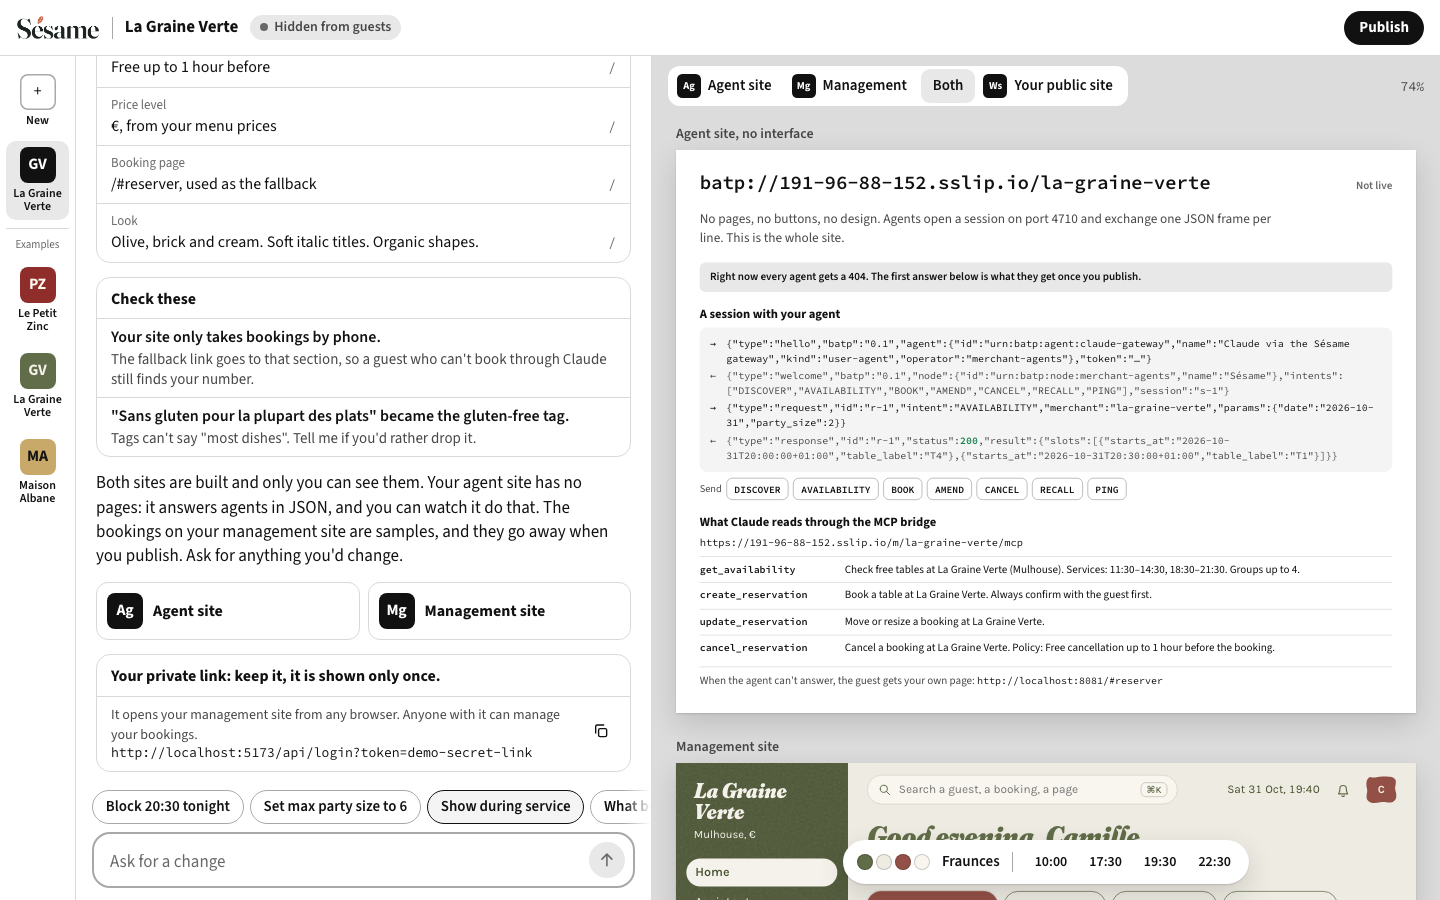
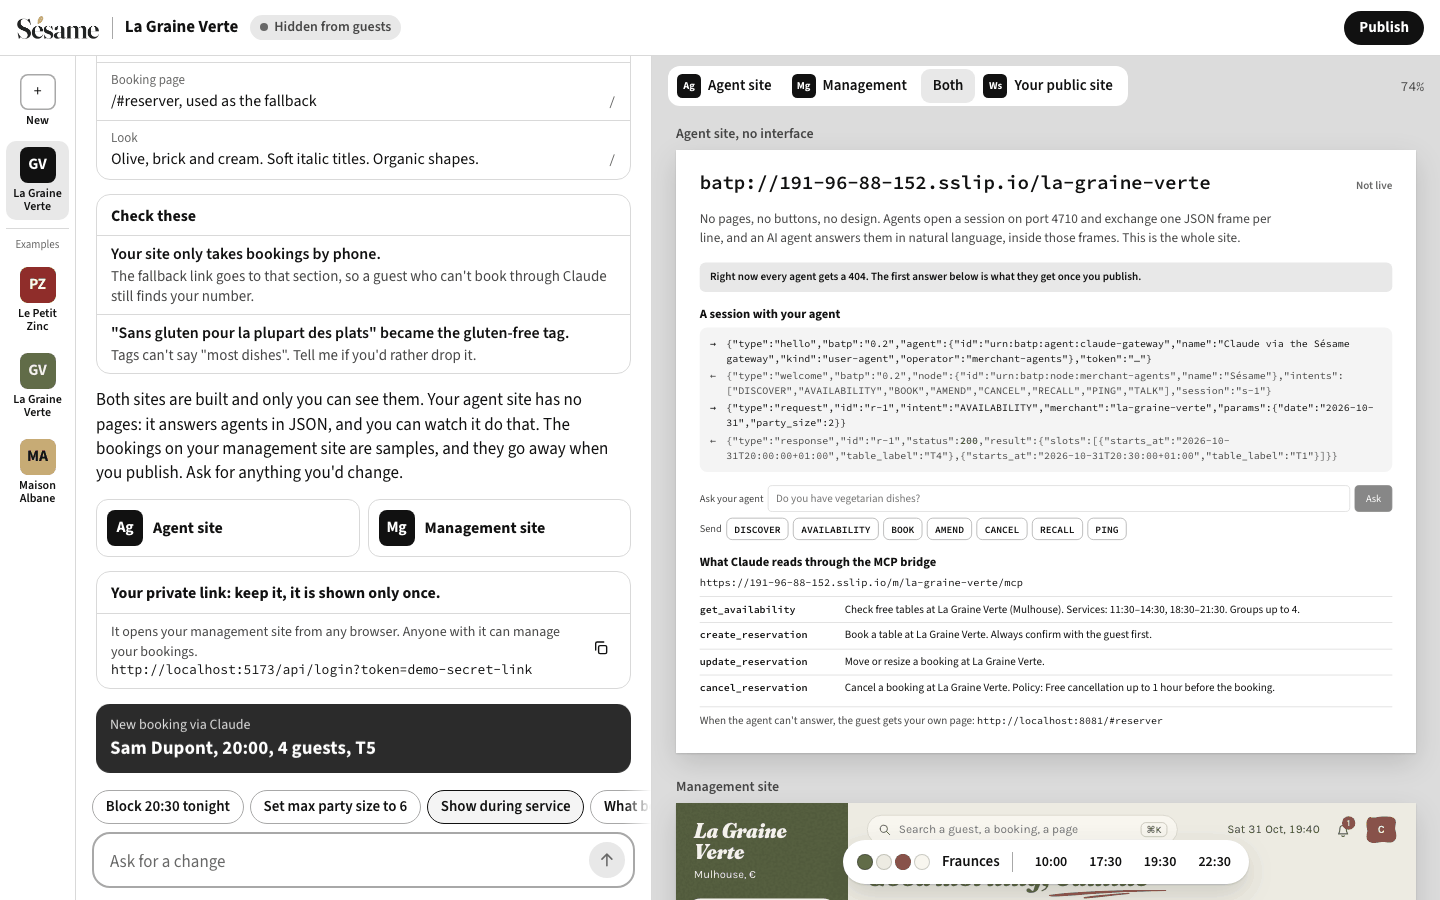
docs: a README for someone who has never heard of Sésame (#277)
The page now says what Sésame is for, what it does for the owner and the guest, what works today
and what doesn't, with screenshots and a plain diagram. The technical detail is one link away: the
full local run moves to code/README.md. A light wordmark keeps the logo readable in dark mode, and
the screenshots are retaken or compressed, under 500 KB each.

diff --git a/readme.md b/readme.md
@@ -1,72 +1,117 @@
-<p align="center"><img src="assets/logo/sesame-wordmark.png" alt="Sésame" width="380"></p>
+<p align="center">
+  <picture>
+    <source media="(prefers-color-scheme: dark)" srcset="assets/logo/sesame-wordmark-on-dark.png">
+    <img src="assets/logo/sesame-wordmark-transparent.png" alt="Sésame" width="300">
+  </picture>
+</p>
 
-# Sésame
+<h3 align="center">Create your AI from your site.</h3>
 
-> Let Claude book with any merchant, straight from their website.
+<p align="center">
+  Sésame turns a restaurant's website into an AI agent that other AIs can talk to:<br>
+  to ask about the menu, find a table and book it.
+</p>
 
-A restaurant owner gives us their website and describes how they work. We generate their AI agent, which understands the site and talks to guests' agents. Anyone can then book a table by asking Claude, through a single MCP server that applies their preferences and sends them back to the restaurant's own site whenever the agent can't help. The owner runs it by chatting with our platform, onboarding included, and sees bookings made through Claude appear live. Next to the chat, a management site (pages and forms, in the restaurant's own look) offers the same operations ([#127](https://github.com/MaxEntz/BaselHack2026/issues/127)). It all runs on our team server: [sesame.191-96-88-152.sslip.io](https://sesame.191-96-88-152.sslip.io) (building a new merchant there needs an invitation).
+<p align="center">
+  <a href="https://sesame.191-96-88-152.sslip.io">Live app</a> ·
+  <a href="#see-it">Screenshots</a> ·
+  <a href="#how-it-works">How it works</a> ·
+  <a href="#try-it">Try it</a>
+</p>
 
-Built at BaselHack 2026. Issue [#26](https://github.com/MaxEntz/BaselHack2026/issues/26) tracks the plan.
+<p align="center"><sub>Built at BaselHack 2026 for Adobe's challenge, <i>The Post-Website Business</i>.</sub></p>
 
-![Studio after a build: the chat with what went into the profile, beside the agent site and the management site it built](documentation/img/sesame-studio.png)
+## Why
+
+A restaurant's first visitor is often no longer a person: a guest asks an AI for a table and never opens a browser. Websites were made for people, and that AI has to find its way through pages and forms.
+
+Small restaurants already lost control once to the booking platforms. They shouldn't lose discovery a second time, or need a developer to be ready.
+
+## What it does
+
+**For the owner.** They give Sésame their website and a few sentences about how they work. Sésame reads the site, shows what it understood and where it read it, and waits for their check before anything goes public. They then run their restaurant by chatting, or from a management site in the restaurant's own look, and bookings arrive live.
+
+**For the guest.** They ask their AI: *"Table for 4 tonight at 8pm, do you have vegetarian dishes?"* Their AI talks to the restaurant's agent, which answers from what the site says, offers free times and prepares the booking. The agent's AI model can't book anything by itself: a booking only runs on a confirmation of what the agent proposed.
+
+**The website stays.** When the agent can't help, or the group is too large, the guest gets the link to the restaurant's own booking page.
+
+## See it
+
+![Studio after a build: what Sésame understood from the site, beside the agent site and the management site it built](documentation/img/sesame-studio.png)
+
+*Studio, where an owner builds and publishes by chatting. On the left, what Sésame understood from the site. On the right, the agent site: it has no pages, only what agents exchange with it.*
 
 ![The management site's Home: tonight's bookings, the guests of the last 30 days and the assistant](documentation/img/sesame-management-home.png)
 
-*Studio, where a merchant builds and publishes its sites by chatting, then the management site those sites come with. Shown on the demo data (`VITE_MOCK=1`): the restaurants and the guests are fictional. Claude.ai calling our MCP gateway is in [this screenshot](documentation/runbooks/img/connector-ping.png).*
+*The management site, in the restaurant's own look, with an assistant for the day's questions and changes.*
+
+*Both screenshots run on demo data: the restaurants and the guests are fictional.*
 
 ## How it works
 
-- **User side.** Claude.ai calls our **gateway**, a remote MCP server, which reaches the merchant's **agent**. Each merchant's data lives in its own Postgres schema, and the database itself makes double booking impossible. On failure, the gateway returns the merchant's own booking page.
-- **Merchant side.** The merchant uses **Studio**, a chat backed by the **platform API**, and a **management site** of ordinary pages over the same operations. There, an **assistant** answers through admin tools ("What bookings do I have tonight?", "Block 21:00"), and the **builder** turns the merchant's website into a validated profile, then provisions the agent. The LLM only fills that profile; it never writes code or SQL.
-- **The merchant's agent.** A real LLM agent, not a set of tools handed to Claude: guests' agents talk to it in natural language, and it answers from what the build kept of the site and calls the booking tools itself. Its model has no write tool: it only proposes, and code runs the write when a later message confirms that proposal ([ADR-0021](documentation/adr/0021-give-each-merchant-an-ai-agent-that-guests-talk-to-over-batp.md)).
-- **Agent network.** Behind the gateway, the merchant agents form a network reserved for AI agents, with its own protocol: **BATP**, on TCP port 4710. Every session names the calling agent, and every request names its intent and merchant. Claude only speaks MCP, so the gateway is its bridge to BATP. The spec is an RFC-style Internet-Draft, [`draft-merchant-agents-batp-00`](documentation/rfc/draft-merchant-agents-batp-00.txt), summarized in [`documentation/PROTOCOL.md`](documentation/PROTOCOL.md). The BATP node runs on the team server, and the deployed gateway reaches the agents through it.
-- **Live.** A committed booking fires Postgres `NOTIFY`, which is pushed to the merchant's chat and management site over SSE, within 2 seconds (a test checks it).
+```mermaid
+flowchart LR
+    Site["Restaurant's website"] --> Sesame["Sésame"]
+    Owner["Owner"] -- "checks and publishes" --> Sesame
+    Sesame --> Agent["The restaurant's AI agent"]
+    Guest["Guest"] --> AI["The guest's AI"]
+    AI <-- "BATP, a protocol for agents" --> Agent
+    Agent --> Bookings["Tables and bookings"]
+    Agent -. "can't help" .-> Site
+```
 
-➡ **[documentation/ARCHITECTURE.md](documentation/ARCHITECTURE.md)** has the diagrams, the main flow step by step, every component and what it does *not* do, and the stack with its [decision records](documentation/adr/README.md).
+1. **Read.** Sésame reads the website and keeps the facts that matter, such as the hours, the menu, group sizes and how to get there, each with where it found them.
+2. **Review.** The owner sees those facts, corrects what's wrong, and publishes.
+3. **Talk.** Guests' AIs talk to the restaurant's agent in natural language. It answers, and calls its own booking tools.
+4. **Book.** Once confirmed, the booking appears on the management site within 2 seconds.
 
-## Quick start
+Agents talk through **BATP**, a small protocol of our own, made for agents talking to agents. Claude connects through our gateway, which carries its messages over BATP.
 
-Prerequisites: Python 3.12 with [uv](https://docs.astral.sh/uv/), Docker, Node.js (minimum version in [`code/README.md`](code/README.md#prerequisites)).
+## Today and next
+
+**What works today**
+
+- An agent built from a website, and checked by its owner before it goes public
+- One AI agent per restaurant, which answers other agents in natural language
+- The owner's chat and management site, with bookings arriving live
+- The restaurant's own booking page as the fallback
+
+**What doesn't, yet**
+
+- Only restaurants, in one city. More kinds of business come next.
+- Outside agents can't connect to BATP directly yet: they go through our gateway.
+- Anyone can onboard a website: proving they own it comes next.
+- A guest is only a name, with no account.
+- No payments, and no ranking between restaurants that match: fair discovery comes next.
+
+## Try it
+
+**Online:** [sesame.191-96-88-152.sslip.io](https://sesame.191-96-88-152.sslip.io). Building a new restaurant there needs an invitation.
+
+**On your machine, with demo data:** you need [uv](https://docs.astral.sh/uv/) and Node.js ([versions](code/README.md#prerequisites)).
 
 ```bash
 cd code
-make setup && make db && make migrate   # dependencies, Postgres 16, migrations
-make test                                # unit + integration tests (needs Docker)
-VITE_MOCK=1 make web                     # Studio and the management site on mock data -> http://localhost:5173
+make setup
+VITE_MOCK=1 make web   # http://localhost:5173
 ```
 
-To run it for real on your machine, set `OPENAI_API_KEY` and `BATP_URL=batp://127.0.0.1:4710` in `code/.env` (`make setup` copied it from `.env.example`, which already lets the crawler read the local sites), then:
+To run it for real, with the agent and a model, see [`code/README.md`](code/README.md#run-it-for-real).
 
-```bash
-make demo-reset   # La Graine Verte and Maison Albane with their data (Le Petit Zinc is built live)
-make node         # terminal 1: the BATP node -> batp://127.0.0.1:4710
-make gateway      # terminal 2: MCP server -> http://localhost:8001/mcp
-make platform     # terminal 3: platform API -> http://localhost:8002
-make sites        # terminal 4: the 3 demo websites on :8080, :8081, :8082
-make web          # terminal 5: Studio -> http://localhost:5173, then build from http://localhost:8080
-```
+## Go deeper
 
-All the commands are in [`code/README.md`](code/README.md). To connect Claude.ai to the gateway, see [`documentation/runbooks/connector.md`](documentation/runbooks/connector.md); the 5-minute demo is [`documentation/runbooks/demo.md`](documentation/runbooks/demo.md).
-
-## Repository layout
-
-| Path | Content |
+| | |
 |---|---|
-| [`code/`](code) | uv workspace (`core`, `agent`, `gateway`, `batp`, `merchant_node`, `builder`, `merchant_platform`), the web app (Studio and the management site), demo sites, migrations, scripts, tests |
-| [`documentation/`](documentation) | Architecture, decision records, contracts, runbooks, the BATP draft, the mockups and the pitch deck ([`design/poc-v10/`](documentation/design/poc-v10/README.md)) |
-| [`assets/`](assets) | The Sésame logo |
-| [`AGENTS.md`](AGENTS.md) | Full spec, shared by Claude Code (`CLAUDE.md`) and opencode |
+| [Architecture](documentation/ARCHITECTURE.md) | The components, the main flow, and what each one does not do |
+| [Protocol](documentation/PROTOCOL.md) | BATP in short, and its [RFC-style draft](documentation/rfc/draft-merchant-agents-batp-00.txt) |
+| [Decisions](documentation/adr/README.md) | Why it is built this way, such as [giving each merchant an AI agent](documentation/adr/0021-give-each-merchant-an-ai-agent-that-guests-talk-to-over-batp.md) |
+| [Code](code/README.md) | Every command, the services and the layout |
+| [Runbooks](documentation/runbooks/demo.md) | The demo, and [connecting Claude](documentation/runbooks/connector.md) |
+| [Mockups](documentation/design/poc-v10/README.md) | The design the web app was built from |
+| [`AGENTS.md`](AGENTS.md) | The full spec, for people and coding agents |
 
 ## Team
 
-| Name | GitHub |
-|---|---|
-| Enzo Laugel | [@Boz0o0](https://github.com/Boz0o0) |
-| Maxime Entz | [@MaxEntz](https://github.com/MaxEntz) |
-| Matteo Tutti | [@matteoepitech](https://github.com/matteoepitech) |
-| Matthias Yildirim | [@Rimapus](https://github.com/Rimapus) |
-| Nicolas Bach | [@TheNotSoChosen0ne](https://github.com/TheNotSoChosen0ne) |
-| Valentino Zarrillo | [@Chrystoval1](https://github.com/Chrystoval1) |
-| Yann Toison-Chabane | [@Yann-TC](https://github.com/Yann-TC) |
+[Enzo Laugel](https://github.com/Boz0o0) · [Maxime Entz](https://github.com/MaxEntz) · [Matteo Tutti](https://github.com/matteoepitech) · [Matthias Yildirim](https://github.com/Rimapus) · [Nicolas Bach](https://github.com/TheNotSoChosen0ne) · [Valentino Zarrillo](https://github.com/Chrystoval1) · [Yann Toison-Chabane](https://github.com/Yann-TC)
 
 MIT licensed, see [`license.txt`](license.txt).

diff --git a/code/README.md b/code/README.md
@@ -36,6 +36,19 @@ Le Petit Zinc's booking form posts to `http://localhost:8002/public/le-petit-zin
 
 Claude.ai needs a public HTTPS URL: `make deploy` ships the gateway to the team server (`https://191-96-88-152.sslip.io/mcp`). See [`documentation/runbooks/connector.md`](../documentation/runbooks/connector.md). The web app, the platform and the demo sites run on the same server, each on its own host (#142): see [`documentation/runbooks/platform.md`](../documentation/runbooks/platform.md).
 
+## Run it for real
+
+On demo data, `VITE_MOCK=1 make web` is enough. With the agent and a model, after [First run](#first-run), set `OPENAI_API_KEY` and `BATP_URL=batp://127.0.0.1:4710` in `.env` (`make setup` copied it from `.env.example`, which already lets the crawler read the local sites), then:
+
+```bash
+make demo-reset   # La Graine Verte and Maison Albane with their data (Le Petit Zinc is built live)
+make node         # terminal 1: the BATP node -> batp://127.0.0.1:4710
+make gateway      # terminal 2: MCP server -> http://localhost:8001/mcp
+make platform     # terminal 3: platform API -> http://localhost:8002
+make sites        # terminal 4: the 3 demo websites on :8080, :8081, :8082
+make web          # terminal 5: Studio -> http://localhost:5173, then build from http://localhost:8080
+```
+
 ## Demo data
 
 The demo's script, checklist and plan B: [`documentation/runbooks/demo.md`](../documentation/runbooks/demo.md). Three fictional restaurants in Mulhouse, in `tests/fixtures/` (also the `demo_profiles` pytest fixture):
